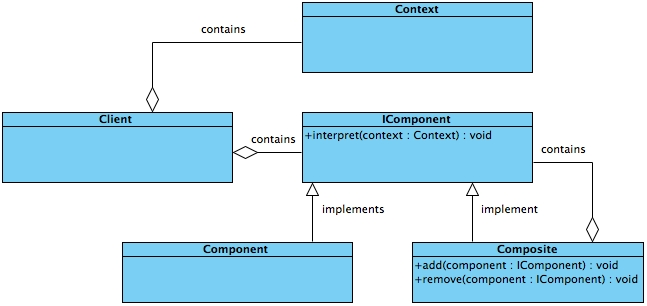
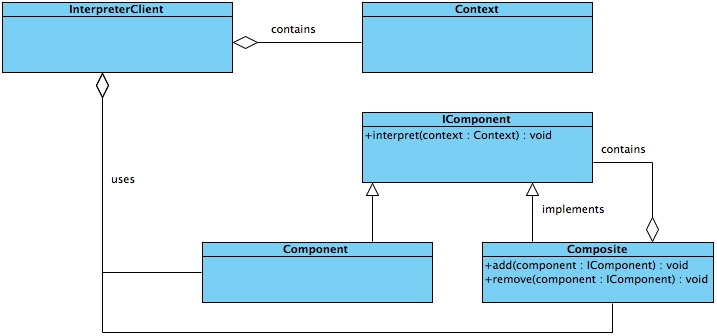
update the class diagram of the interpreter and the composite

diff --git a/src/main/java/org/sa/client/InterpreterClient.java b/src/main/java/org/sa/client/InterpreterClient.java
@@ -1,0 +1,15 @@
+package org.sa.client;
+
+/**
+ * This is the client that demonstrate the use in the Interpreter design pattern.
+ * 
+ * @author Shai Amar
+ *
+ */
+public class InterpreterClient 
+{
+	public static void main(String[] args)
+	{
+		
+	}
+}
